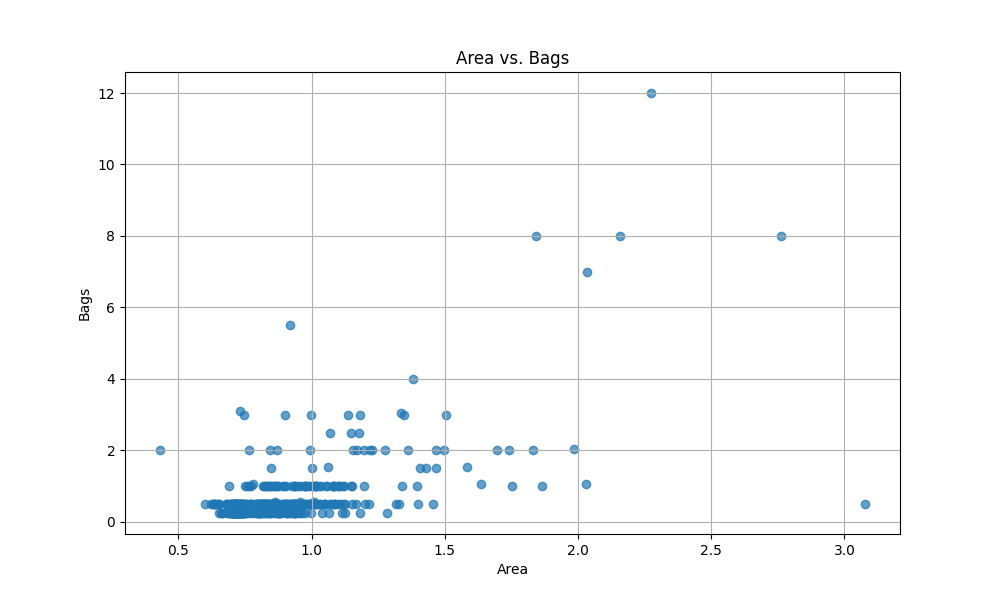
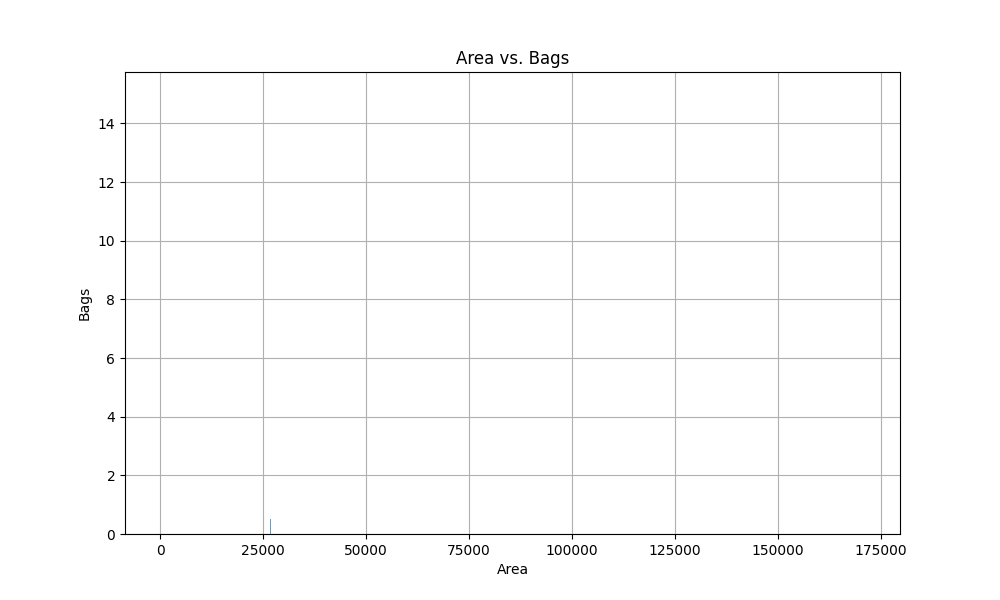
slowly losing it

diff --git a/predict_torchnn.py b/predict_torchnn.py
@@ -1,7 +1,7 @@
 import pandas as pd
 from sklearn.model_selection import train_test_split
 from sklearn.preprocessing import StandardScaler
-from sklearn.metrics import mean_squared_error
+from sklearn.metrics import mean_squared_error, r2_score
 import torch
 import torch.nn as nn
 import torch.optim as optim
@@ -11,8 +11,10 @@ from torch.utils.data import TensorDataset, DataLoader
 df = pd.read_csv('train_area_features.csv')
 df = df.dropna(subset=['Bags'])
 
+df = df[df['Area'] <= 10000]
+
 # Split the data
-X = df[['BoundingBoxArea','Width','Height','Area']].values
+X = df[['Area']].values
 y = df['Bags'].values
 X_train, X_test, y_train, y_test = train_test_split(X, y, test_size=0.2, random_state=42)
 
@@ -85,7 +87,9 @@ for hidden_dim1, hidden_dim2 in hidden_dims:
                 y_pred_test = model(X_test_tensor).squeeze().numpy()
 
             train_mse = mean_squared_error(y_train, y_pred_train)
+            train_r2 = r2_score(y_train, y_pred_train)
             test_mse = mean_squared_error(y_test, y_pred_test)
+            test_r2 = r2_score(y_test, y_pred_test)
 
             # Store results
             results.append({
@@ -99,6 +103,7 @@ for hidden_dim1, hidden_dim2 in hidden_dims:
 
             print(f'Hidden Layers: {hidden_dim1}, {hidden_dim2} | LR: {lr} | Batch Size: {batch_size}')
             print(f'Train MSE: {train_mse:.5f}, Test MSE: {test_mse:.5f}\n')
+            print(f'Train R2: {train_r2:.5f}, Test R2: {test_r2:.5f}\n')
 
 # Find the best hyperparameters
 best_result = min(results, key=lambda x: x['test_mse'])

diff --git a/compile_results.py b/compile_results.py
@@ -1,6 +1,8 @@
 import json
 import os
 import pandas as pd
+import matplotlib.pyplot as plt
+from pandas.plotting import table
 
 # List of result files (update with the actual filenames)
 result_files = [
@@ -35,3 +37,19 @@ df = pd.DataFrame(compiled_data)
 df.to_csv("compiled_results.csv", index=False)
 
 print("Compiled results saved to compiled_results.csv")
+
+# Visualize the DataFrame as a table
+fig, ax = plt.subplots(figsize=(10, 4)) # Adjust the size as needed
+ax.axis('off') # Hide the axes
+
+# Create a table
+tbl = table(ax, df, loc='center', cellLoc='center', colWidths=[0.2]*len(df.columns))
+
+# Style the table
+tbl.auto_set_font_size(False)
+tbl.set_fontsize(10)
+tbl.scale(1.2, 1.2) # Adjust scale as needed
+
+# Save the table as an image
+plt.savefig('results_table.png', bbox_inches='tight')
+print("Table saved as results_table.png")

diff --git a/predict_svr.py b/predict_svr.py
@@ -2,7 +2,7 @@ import numpy as np
 import pandas as pd
 from sklearn.model_selection import train_test_split, KFold, cross_val_score
 from sklearn.svm import SVR
-from sklearn.metrics import mean_squared_error
+from sklearn.metrics import mean_squared_error, r2_score
 from sklearn.preprocessing import StandardScaler
 
 # Load the data

diff --git a/explore.py b/explore.py
@@ -6,7 +6,7 @@ df = pd.read_csv('train_area_features.csv')
 df = df.dropna(subset=['Bags'])
 
 plt.figure(figsize=(10, 6))
-plt.scatter(df['Area'], df['Bags'], alpha=0.7)
+plt.bar(df['Area'], df['Bags'], alpha=0.7)
 plt.title('Area vs. Bags')
 plt.xlabel('Area')
 plt.ylabel('Bags')
